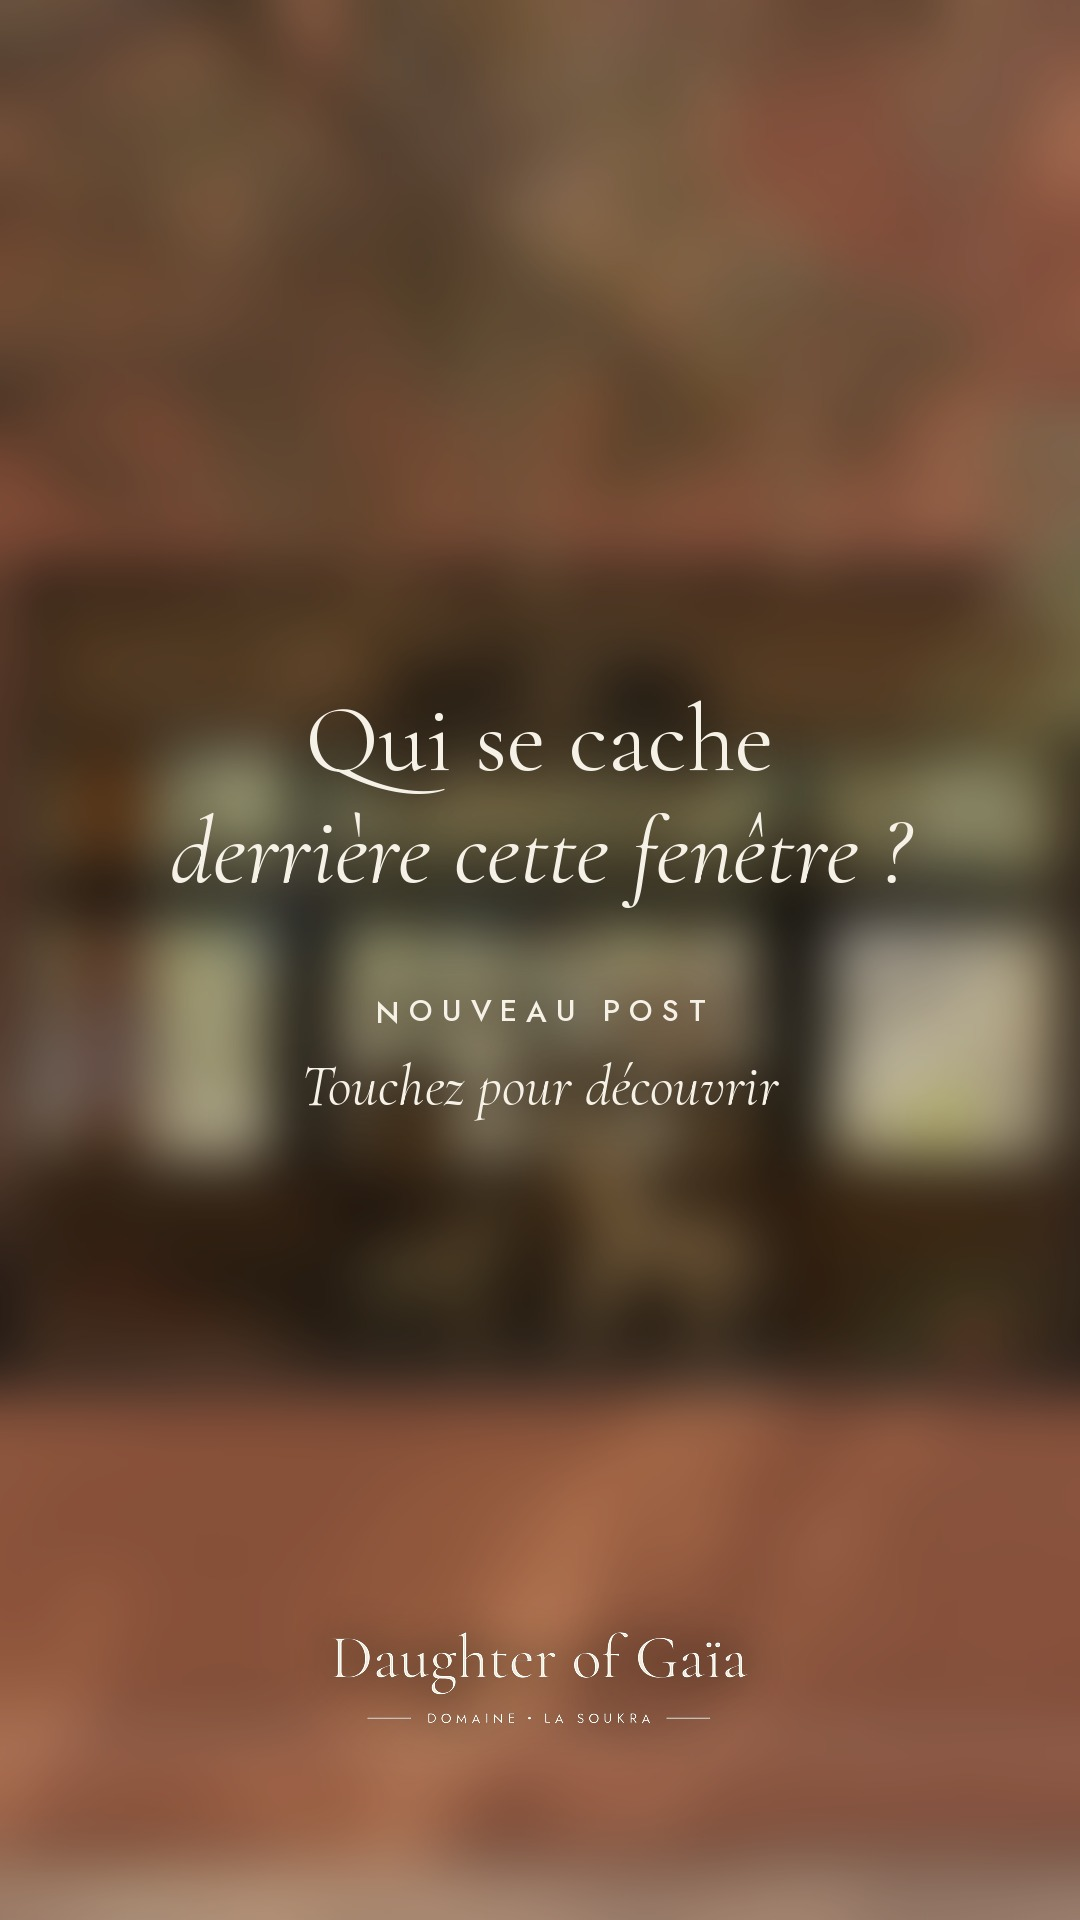
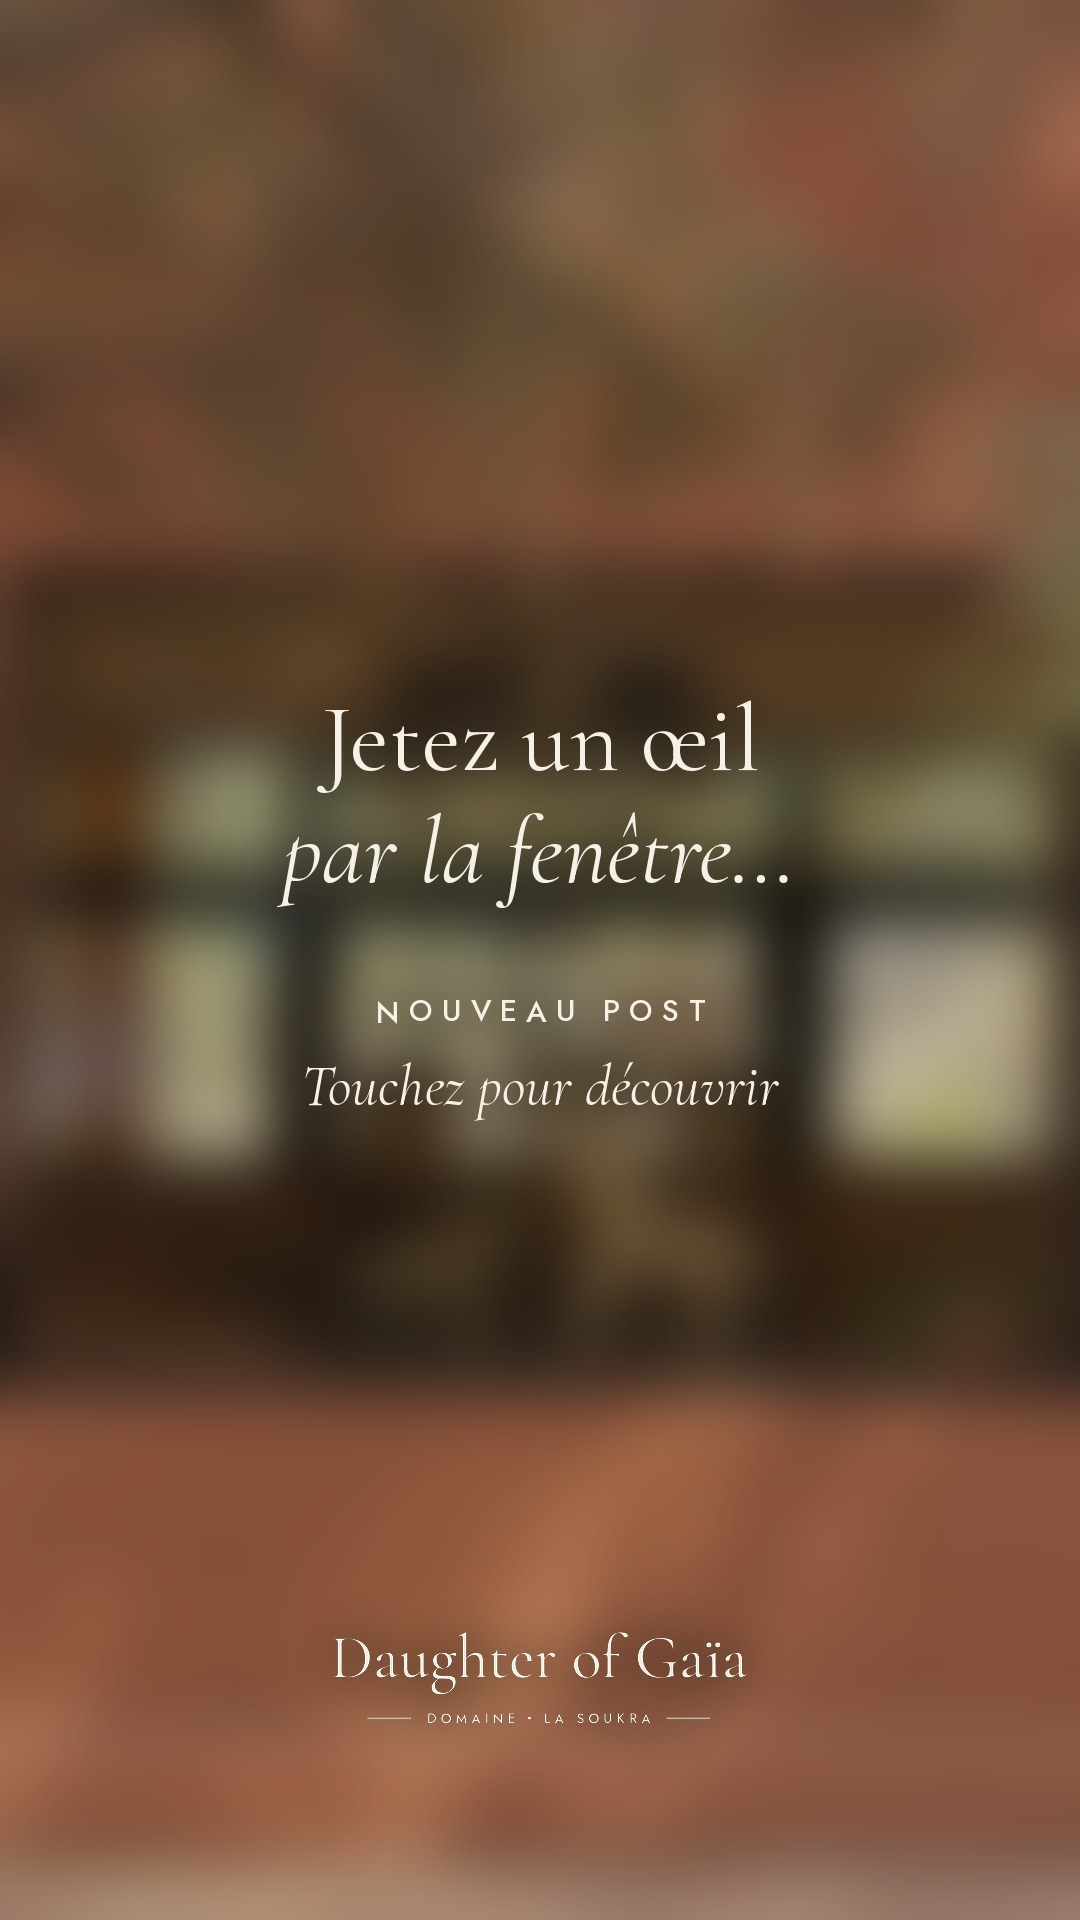
Story teaser : « Jetez un œil par la fenêtre… »
Claude-Session: https://claude.ai/code/session_01NbEMafBkY3AdMos4dxswM8

Changed region(s): [[0.1528, 0.375, 0.7944, 0.4688]]

diff --git a/instagram/story_teaser_fenetre.py b/instagram/story_teaser_fenetre.py
@@ -34,8 +34,8 @@ def story():
     d = ImageDraw.Draw(im)
     titre = police("CormorantGaramond[wght].ttf", 96, 400)
     ital = police("CormorantGaramond-Italic[wght].ttf", 96, 400)
-    d.text((W / 2, 700), "Qui se cache", font=titre, fill=BLANC, anchor="mt")
-    d.text((W / 2, 812), "derrière cette fenêtre ?", font=ital, fill=BLANC, anchor="mt")
+    d.text((W / 2, 700), "Jetez un œil", font=titre, fill=BLANC, anchor="mt")
+    d.text((W / 2, 812), "par la fenêtre…", font=ital, fill=BLANC, anchor="mt")
 
     # « NOUVEAU POST » en petites capitales espacées, puis l'invitation.
     caps, esp = police("Jost[wght].ttf", 30, 500), 9
